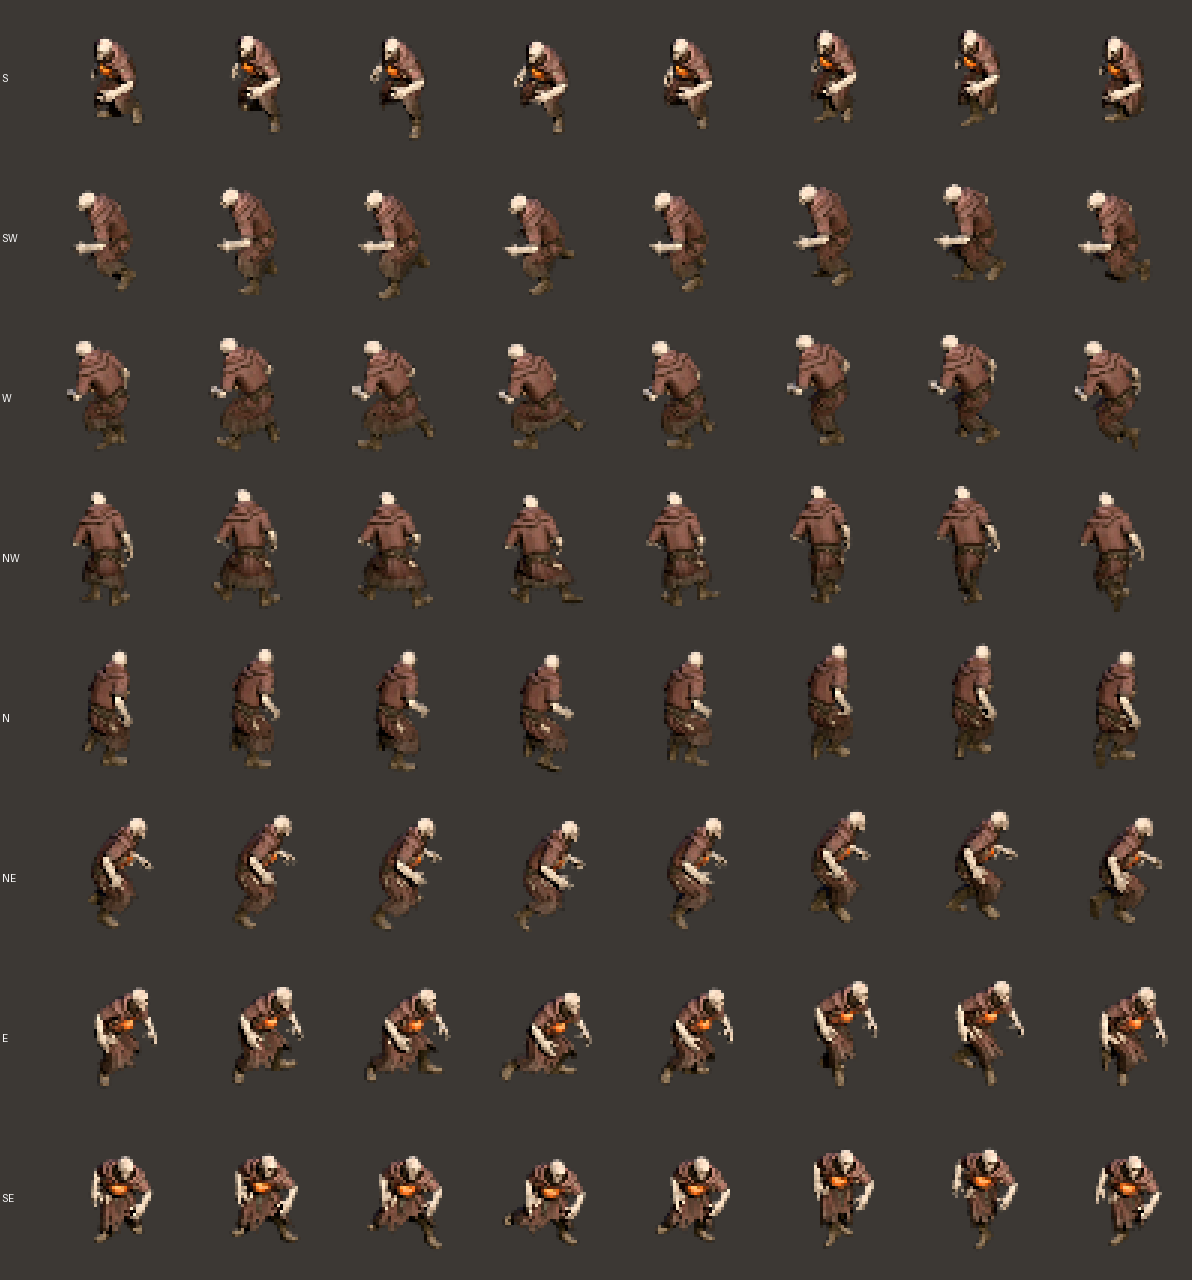
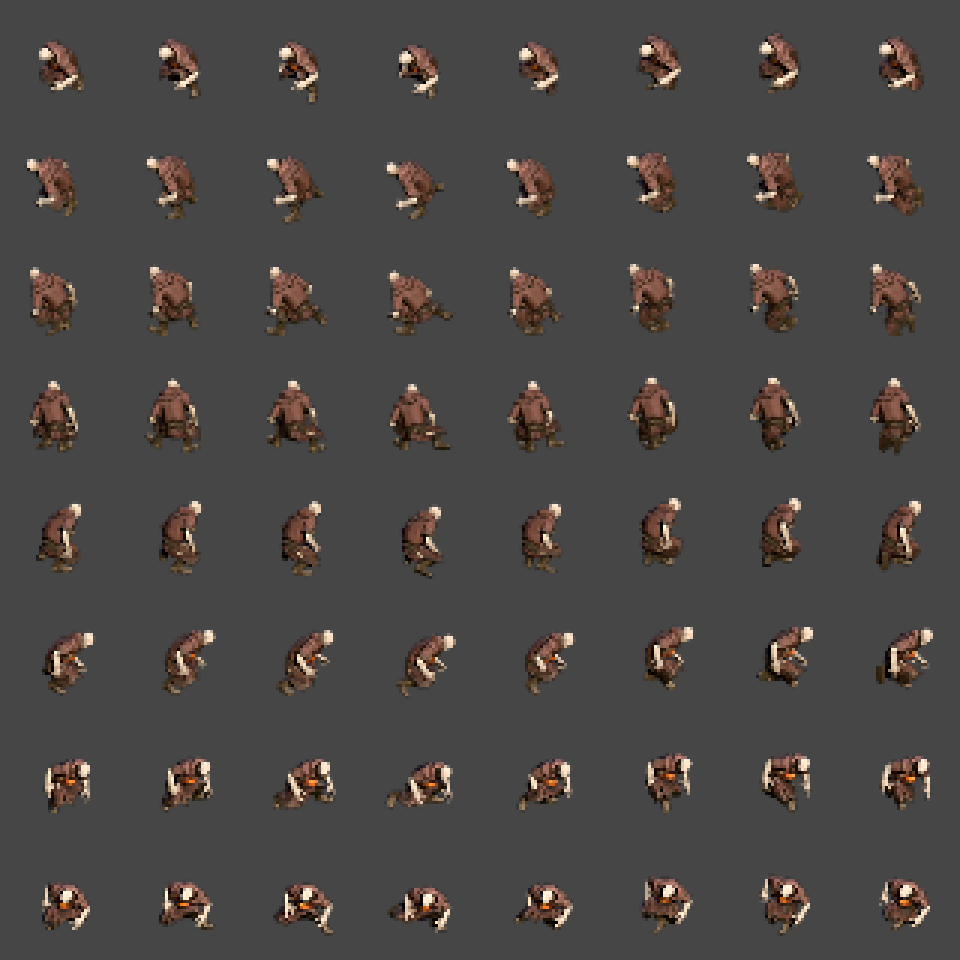
docs(coberturas): walkthrough, STATUS, evidencia con A2 y tests de host al dia (10 personajes)

diff --git a/tests/test_character_muzzle.py b/tests/test_character_muzzle.py
@@ -6,11 +6,11 @@ from pathlib import Path
 ROOT = Path(__file__).resolve().parents[1]
 SPRITES = (ROOT / "source" / "player_sprite.c").read_text(encoding="utf-8")
 CHAR_DIR = ROOT / "assets" / "sprites" / "characters"
-# Order of the C tables (NUM_CHARACTERS): hero, charger, ojo, exvoto walk, exvoto pray_stand, pray_kneel, stand_up, abanderado, monaguillo.
+# Order of the C tables (NUM_CHARACTERS): hero, charger, ojo, exvoto walk, exvoto pray_stand, pray_kneel, stand_up, abanderado, monaguillo, corazon_agachado_andar.
 CHARACTERS = [
     "corazon", "charger", "ojo",
     "exvoto", "exvoto_pray_stand", "exvoto_pray_kneel", "exvoto_stand_up",
-    "abanderado", "monaguillo",
+    "abanderado", "monaguillo", "corazon_agachado_andar",
 ]
 ARMED = ["corazon", "ojo"]
 TOLERANCE = 2

diff --git a/tests/test_sprite_ground_anchor.py b/tests/test_sprite_ground_anchor.py
@@ -67,7 +67,7 @@ class SpriteGroundAnchorTests(unittest.TestCase):
 
     def test_anchor_table_has_one_row_per_character(self):
         anchors = exported_anchors()
-        self.assertEqual(len(anchors), 9)
+        self.assertEqual(len(anchors), 10)
         self.assertTrue(all(len(row) == 8 for row in anchors))
 
 

diff --git a/STATUS.md b/STATUS.md
@@ -4,6 +4,7 @@ Primero el estado necesario para retomar el trabajo sin depender del chat; despu
 
 ## Estado actual (2026-11-18)
 
+- **Coberturas bajas: el héroe se agacha tras bancos y sacos (`feat/coberturas-bajas`, 2026-11-18, integrado en `main`):** sin botón, se agacha solo al pegarse a un banco o unos sacos, anda agachado a la mitad de velocidad y se levanta al tocar el stylus para disparar; agachado, el haz del Ojo no le da si cruza la cobertura antes (cuerpo a cuerpo, cargas y marea le dan igual). Arte final del andar agachado: variante A2 (cadera 15 u más baja, torso inclinado; 20,8 px de alto frente a 32,3 de pie); el agachado quieto es el fotograma 4 de ese andar. Colisión nueva «cobertura baja» (valor 2: bloquea cuerpos, no balas) en bancos y rects de sacos. Build 0 avisos, tests y escenarios PASS (escenario `cobertura_baja_agachado`, variante `cathedral-sandbox`). No se midió de nuevo en DS: A2 no cambia el render ni el presupuesto y el agachado ya midió ~3 % del frame en la DS (60 FPS). Tiles del kit 948/1024; EWRAM 3,38 de 3,5 MiB. [`walkthrough`](walkthroughs/coberturas-bajas/walkthrough.md).
 - **Encuentros tácticos, solo diseño (`docs/encuentros-tacticos`, 2026-11-18, integrado en `main`):** `DESIGN.md` §6.13.9 corrige §6.13.6 porque en las salas lo óptimo seguía siendo quedarse abajo esperando: Ojo con más alcance que el rayo y en su puesto arriba (en todas las salas del acto I menos el atrio), Exvotos que se reúnen y flanquean (rodean la cobertura), Cireneo guardián, cuatro reglas de sala y catálogo v3 de 7 plantas (`walkthroughs/encuentros-tacticos/catalogo-salas-v3.html`). **Sin código en la ROM:** siguen las salas v2. Siguiente: revisar el catálogo v3 contra las reglas y programar alcance del Ojo, flanqueo y Cireneo guardián.
 - **Buffer de carga del láser y cancelación reactiva (`fix/laser-charge-buffer`, 2026-11-18, integrado en `main`):** resuelta la pérdida de pulsación tras disparar el francotirador; ahora al volver a pulsar la pantalla el arma arranca la carga del láser inmediatamente desde cero (progreso 0) sin esperar el enfriamiento post-disparo de 40 frames ni quedar atrapado en la recuperación. Al soltar el lápiz (`!touch_down`), se corta de inmediato el clip encorvado regresando al reposo/andar normal. Combinado con los sprites de escala unificada normalizados a 48 px de `main`. Build 0 avisos, escenarios headless PASS y validado en Nintendo DS física por el usuario. [`walkthrough`](walkthroughs/fix-laser-charge-buffer/walkthrough.md).
 - **Remate: embestida previa, cámara pegada al héroe y sandbox que parece el juego (`feat/remate-tuning`, 2026-11-18, integrado en `main`):** al pulsar `L` el héroe corre hasta el punto de inicio del remate y la cámara sigue sus pies; el sandbox de remates (`REMATE_SANDBOX`) ya no muestra el HUD de depuración. Probado a mano por el usuario con buena pinta, **pero falta un testeo más a fondo** (balance de alcance, tambaleo, feedback y recarga siguen pendientes de tunear; sin pasada de escenarios ni medición `perf` en DS).

diff --git a/walkthroughs/coberturas-bajas/walkthrough.md b/walkthroughs/coberturas-bajas/walkthrough.md
@@ -1,0 +1,34 @@
+# Coberturas bajas: agacharse tras bancos y sacos
+
+Rama `feat/coberturas-bajas`, 2026-11-18. Decisión de diseño: `DESIGN.md` §6.9, «Agacharse tras coberturas bajas».
+
+## Qué hace
+- Sin botón: el héroe se agacha solo al pegarse a un banco o a unos sacos, anda agachado a la mitad de velocidad y se levanta al separarse.
+- No dispara agachado: al tocar el stylus se levanta al instante y dispara; al soltar, si sigue pegado, se vuelve a agachar.
+- Protege por un solo lado: el haz del Ojo no le da si cruza la cobertura antes de llegar a él. Cuerpo a cuerpo, cargas y marea le dan igual.
+- Colisión nueva «cobertura baja» (valor 2): bloquea cuerpos pero no balas. Bancos del kit y rects de sacos de los encuentros.
+
+## Arte final: A2
+El usuario eligió la variante A2 del andar agachado (cadera 15 u más baja, torso más inclinado que el clip de Mixamo, cabeza compensada). Altura media 20,8 px frente a 32,3 de pie (64 %). Variantes descartadas: A1, A3, la ronda previa `a` y el clip sin retocar (85 % de la altura de pie, no se leía agachado). El retoque es procedural y reproducible (`tools/characters/build_corazon.py`, `CROUCH_LEVELS`/`CROUCH_LEVEL`). El agachado quieto usa el fotograma 4 del andar (el más compacto en las 8 direcciones, pies juntos y cabeza baja).
+
+![De pie frente a agachado, 8 direcciones](assets/comparativa_pie_agachado_4x.png)
+![Andar agachado, 8 direcciones x 8 fotogramas](assets/hoja_agachado_andar_8dir_3x.png)
+
+## Escenario de la feature
+`scenarios/cobertura_baja_agachado.json` (variante `cathedral-sandbox`): agachado el haz no le da (5 hp); de pie, el mismo haz sí (5 a 4).
+
+![Escenario](assets/cobertura_agachado.gif)
+![Momentos](assets/cobertura_agachado_momentos.png)
+
+La ronda en la que se eligió A2: [GIF](assets/abc_agachado_torso.gif), [8 direcciones](assets/abc_agachado_torso_8dir.png).
+
+## Verificación
+- Build 0 avisos nuevos; escenarios `-Tag coberturas` PASS; tests de host (kit, paridad de layout, boca del arma, ancla de suelo, contrato del blitter, guardarraíles) PASS. Se actualizaron `test_character_muzzle` y `test_sprite_ground_anchor` por el décimo personaje (`CHAR_HERO_CROUCH_WALK`).
+- DS física (ROM `perf`, antes de A2): 60 FPS y coste de agacharse ~3 % del frame. A2 solo cambia el arte, no el render ni el presupuesto, así que no se midió de nuevo.
+- Presupuestos: tiles del kit 948/1024; EWRAM 3,38 de 3,5 MiB.
+- `main` se fusionó en la rama antes del cierre sin conflictos (remates, encuentros, piezas 3D, escala unificada).
+
+## Deuda ajena anotada
+- La plantilla `templates/blocksds-test/Makefile` decide `ENCOUNTERS_PROTO` mirando `DEFINES`, pero las variantes llegan por `CFLAGS`: todas las variantes sandbox llevan el prototipo de encuentros activo. Se parcheó temporalmente para compilar el sandbox del escenario. Arreglo pendiente en el repo de la skill.
+- `fetch-device-log.ps1` corta a 60 s y el log pesa 3,7 MB.
+- `scenarios/cathedral_bench_collision.json` está desfasado (los bancos con la semilla actual están en x=280).

diff --git a/walkthroughs/README.md b/walkthroughs/README.md
@@ -152,3 +152,4 @@ Resúmenes acumulativos y auditables de cada entrega y avance de desarrollo en `
 | 134 | Ejecuciones (remates) del Exvoto y Cireneo: animación Sonnet opción A para ambos, estado de tambaleo, recarga instantánea del rayo y optimización de EWRAM | [`remate-exvoto/`](remate-exvoto/walkthrough.md) | Build 0 avisos, subida por FTP y validada en DS física; pendiente tunear la mecánica |
 | 135 | Corrección del buffer de carga del láser, corte de animación al soltar y arranque instantáneo sin enfriamiento | [`fix-laser-charge-buffer/`](fix-laser-charge-buffer/walkthrough.md) | Build 0 avisos, escenarios PASS y validado en DS física por el usuario |
 | 136 | Método sala a sala y partida de referencia (plan de pruebas de 10 min sobre la ROM actual) | [`sala-atrio/`](sala-atrio/plan_pruebas.md) | Solo diseño y plan; sin cambios en la ROM |
+| 137 | Coberturas bajas: el héroe se agacha solo tras bancos y sacos, andar agachado A2, haz del Ojo bloqueado por la cobertura | [`coberturas-bajas/`](coberturas-bajas/walkthrough.md) | Build 0 avisos, tests y escenarios PASS; agachado medido en DS física (~3 % del frame, 60 FPS) |

diff --git a/DESIGN.md b/DESIGN.md
@@ -940,7 +940,7 @@ Sustituye, cuando se implemente, al compositor v2 de la catedral (§6.9.1b), a l
   - Los cuerpo a cuerpo le alcanzan agachado igual que de pie: el precio es quedarse quieto mientras la horda rodea el banco.
   - Coberturas altas (columnas, estatuas): sin cambios ni animación propia, porque ya paran los disparos.
   - Cifras `[TUNABLE-PLACEHOLDER]`: «pegado» = a ≤ 4 px de la huella de la cobertura; velocidad agachado = 50 % de la normal; se levanta y se agacha en ~6 frames.
-  - Arte: un clip «agachado» quieto y andando, en 8 direcciones, del héroe.
+  - Arte: un clip «agachado» quieto y andando, en 8 direcciones, del héroe. Decidido (2026-11-18): variante A2 del andar agachado (cadera 15 u más baja, torso más inclinado que el clip de Mixamo, 20,8 px de alto frente a 32,3 de pie); el quieto es un fotograma fijo de ese andar.
   - Referencia de género: las mesas volcadas de Enter the Gungeon.
 
 **Relicario en cada pasillo: mejora continua y periódica.**
